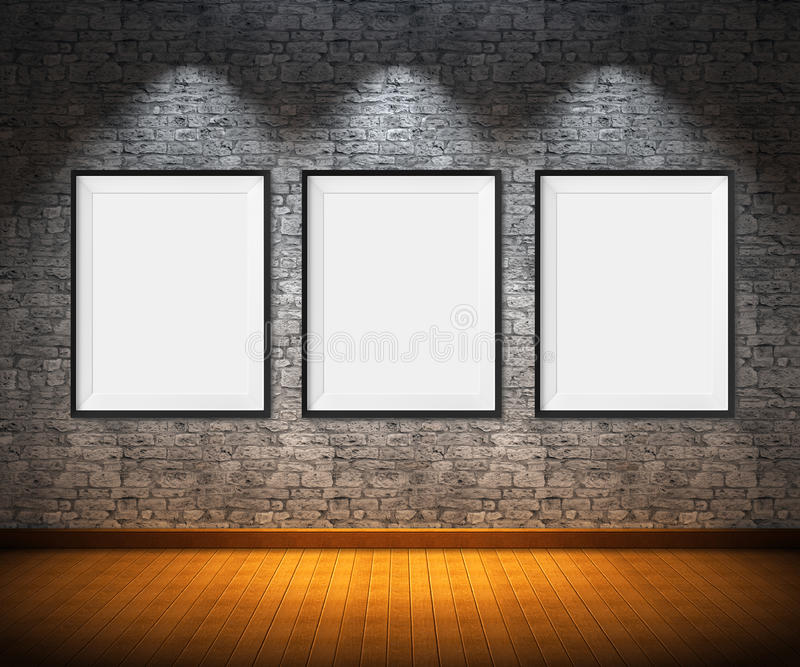
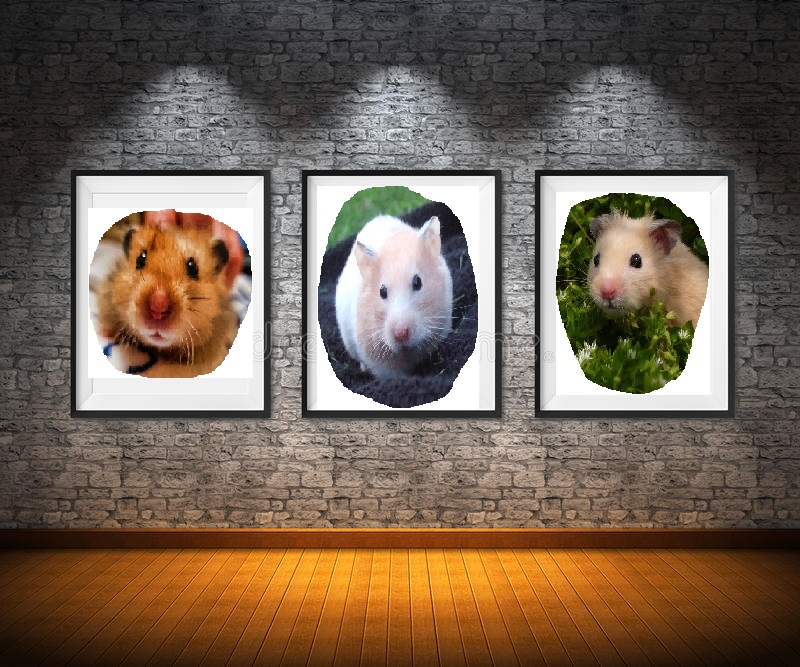
Addwin är bytt mot update, massa nytt Css, hover effekt, profile behöves fixas

Changed region(s): [[0.375, 0.2699, 0.625, 0.6297], [0.6875, 0.2699, 0.9062, 0.5997], [0.0938, 0.2999, 0.3125, 0.5697]]

diff --git a/WarHamsters/wwwroot/css/site.css b/WarHamsters/wwwroot/css/site.css
@@ -1,7 +1,8 @@
 @import url('open-iconic/font/css/open-iconic-bootstrap.min.css');
 
 html, body {
-    font-family: 'Helvetica Neue', Helvetica, Arial, sans-serif;
+    /*font-family: 'Helvetica Neue', Helvetica, Arial, sans-serif;*/
+    font-family:Verdana, Geneva, Tahoma, sans-serif;
     background-color:darkkhaki
 }
 
@@ -63,40 +64,34 @@ a, .btn-link {
     .blazor-error-boundary::after {
         content: "An error has occurred."
     }
-.hamster-bild{
-    width:100%;
-    height:100%;
-    border-width:medium;
-    border-radius:50%;
-    
+.hamster-bild {
+    width: 100%;
+    height: 100%;
+    border-width: medium;
+    border-radius: 50%;
+    margin-left: auto;
+    margin-right: auto;
 }
 .card-goodies {
 
-    background-color: orange;
     border-width:thick;
     border-radius:10px;
     margin: 5px;
 
 }
-.card-goodies2 {
+.card-hover:hover{
 
-    background-color: limegreen;
-    border-width:thick;
-    border-radius:10px;
-    margin: 5px;
-
+    opacity:0.5;
 }
-.card-goodies3 {
 
-    background-color: yellowgreen;
-    border-width:thick;
-    border-radius:10px;
-    margin: 5px;
-
-}
 .hamster-bild-small {
     width: 70px;
     height: 70px;
+    border-width: medium;
+    border-radius: 50%;
+    align-content: center;
+    margin-left: auto;
+    margin-right: auto;
 }
 .carousel-caption{
     color:white;

diff --git a/DataLibrary/Repository/HamsterRepository.cs b/DataLibrary/Repository/HamsterRepository.cs
@@ -12,18 +12,26 @@ public class HamsterRepository
         //var ctx = _factory.CreateDbContext(); Testa om detta funkar nån gång/ fråga om det är rätt att göra så
     }
    
-    public async Task AddWin(Hamster hamsterWin, Hamster hamsterLoss)
+    public async Task UpdateHamster(Hamster hamster)
     {
         using (var ctx = _factory.CreateDbContext())
         {
-            hamsterWin.Wins++;
-            hamsterWin.Games++;
-            hamsterLoss.Defeats++;
-            hamsterLoss.Games++;
-            ctx.UpdateRange(hamsterWin, hamsterLoss);
-            await ctx.SaveChangesAsync();
+            var DbHamster = await ctx.Hamsters.FindAsync(hamster.Id);
 
-        }
+
+            DbHamster.Name = hamster.Name;
+            DbHamster.Age = hamster.Age;
+            DbHamster.FavFood = hamster.FavFood;
+            DbHamster.Loves = hamster.Loves;
+            DbHamster.ImgName = hamster.ImgName;
+            DbHamster.Wins = hamster.Wins;
+            DbHamster.Defeats = hamster.Defeats;
+            DbHamster.Games = hamster.Games;
+            DbHamster.IsActive = hamster.IsActive;
+
+            await ctx.SaveChangesAsync();
+            }
+        
     }
     public Hamster GetHamsterById(int id)
     {
@@ -34,15 +42,6 @@ public class HamsterRepository
             return hamster;
         }
     }
-    //public List<Hamster> GetHamsterBySearch(string searchTerm)
-    //{
-    //    using (var ctx = _factory.CreateDbContext())
-    //    {
-    //        var hamsters = ctx.Hamsters.Where(p => string.IsNullOrEmpty(searchTerm)
-    //           || p.Name.ToLower().Contains(searchTerm.ToLower()));
-    //        return hamsters.ToList();
-    //    }
-    //}
     public async Task AddHamster(Hamster hamster)
     {
         using (var ctx = _factory.CreateDbContext())
@@ -64,42 +63,6 @@ public class HamsterRepository
         }
 
     }
-    //public List<Hamster> GetTwoRandomHamsters()
-    //{
-    //    using (var ctx = _factory.CreateDbContext())
-    //    {
-    //        Random rnd = new Random();
-    //        int n = ctx.Hamsters.Count();
-    //        var list = ctx.Hamsters.ToList();
-
-    //        // Plockat från Stackoverflow/google --https://blog.codinghorror.com/shuffling/ via Patrik S.
-    //        while (n > 1)
-    //        {
-    //            int k = (rnd.Next(0, n) % n);
-    //            n--;
-    //            Hamster value = list[k];
-    //            list[k] = list[n];
-    //            list[n] = value;
-    //        }
-    //        List<Hamster> data = list
-    //                .Where(h => h.IsActive == true)
-    //                .Take(2)
-    //                .ToList();
-
-    //        return data.ToList();
-    //    }
-    //}
-    //public List<Hamster> GetAllActiveHamsters()
-    //{
-    //    using (var ctx = _factory.CreateDbContext())
-    //    {
-
-    //        List<Hamster> hamsters = ctx.Hamsters.Where(x => x.IsActive == true).ToList();
-
-    //        return hamsters.ToList();
-    //    }
-
-    //}
     public List<Hamster> GetAllHamsters()
     {
         using (var ctx = _factory.CreateDbContext())
@@ -111,25 +74,6 @@ public class HamsterRepository
         }
 
     }
-    //public List<Hamster> Get5Hamsters(bool isTop)
-    //{
-    //    using (var ctx = _factory.CreateDbContext())
-    //    {
-    //        if (isTop)
-    //        {
-    //            var hamsters = ctx.Hamsters.Where(x => x.IsActive == true).OrderByDescending(x => x.Wins);
-    //            List<Hamster> hamsters5 = hamsters.Take(5).ToList();
-    //            return hamsters5;
-    //        }
-    //        else
-    //        {
-    //            var hamsters = ctx.Hamsters.Where(x => x.IsActive == true).OrderByDescending(x => x.Defeats);
-    //            List<Hamster> hamsters5 = hamsters.Take(5).ToList();
-    //            return hamsters5;
-    //        }
-
-    //    }
-    //}
     /// <summary>
     /// Returns true if there are any Hamsters in the Database
     /// </summary>

diff --git a/WarHamsters/Pages/Battle.razor.cs b/WarHamsters/Pages/Battle.razor.cs
@@ -13,14 +13,30 @@ public partial class Battle : ComponentBase
     private double hamster2Procent;
     public List<Hamster> Hamsters { get; set; } = new List<Hamster>();
 
-    public async Task AddWin(Hamster hamsterWin, Hamster hamsterLoss)
+    public async Task Update(Hamster hamsterWin, Hamster hamsterLoss)
     {
-        await hamsterService.AddWin(hamsterWin, hamsterLoss);
+        
+        await AddWin(hamsterWin);
+        await AddLoss(hamsterLoss);
+        //await hamsterService.AddWin(hamsterWin, hamsterLoss);
+        await hamsterService.UpdateHamster(hamsterWin);
+        await hamsterService.UpdateHamster(hamsterLoss);
         await matchService.AddNewMatch(hamsterWin, hamsterLoss);
        
         RunAgain(hamsterWin, hamsterLoss);
 
     }
+    public async Task AddWin(Hamster hamsterWin)
+    {
+        hamsterWin.Wins++;
+        hamsterWin.Games++;
+    }
+    public async Task AddLoss(Hamster hamsterLoss)
+    {
+        hamsterLoss.Defeats++;
+        hamsterLoss.Games++;
+    }
+
     public void RunAgain(Hamster hamsterWin, Hamster hamsterLoss)
     {
         oldHamster1 = hamsterWin;

diff --git a/DataLibrary/Services/HamsterService.cs b/DataLibrary/Services/HamsterService.cs
@@ -12,10 +12,10 @@ public class HamsterService
         _repo = repo;
     }
 
-    public async Task AddWin(Hamster hamsterWin, Hamster hamsterLoss)
+    public async Task UpdateHamster(Hamster hamster)
     {
 
-        await _repo.AddWin(hamsterWin, hamsterLoss);
+        await _repo.UpdateHamster(hamster);
     }
     public Task AddHamster(Hamster hamster)
     {

diff --git a/WarHamsters/Pages/Profile.razor.cs b/WarHamsters/Pages/Profile.razor.cs
@@ -28,6 +28,10 @@ namespace WarHamsters.Pages
             navigation.NavigateTo("/gallery");
 
         }
+        public void Edit()
+        {
+            navigation.NavigateTo("/Edit");
+        }
         public void GoBack()
         {
             if (Oldpage == "top5")
